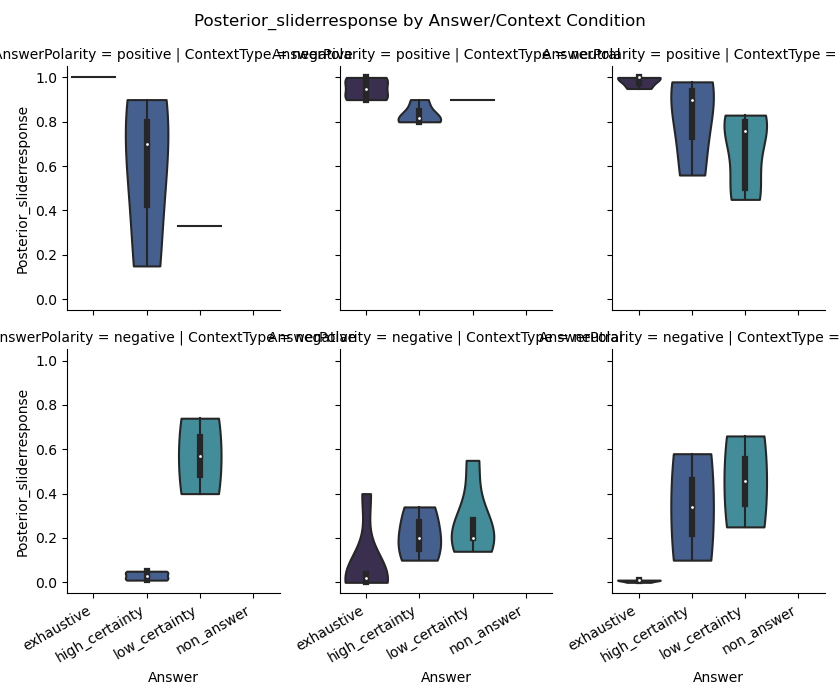
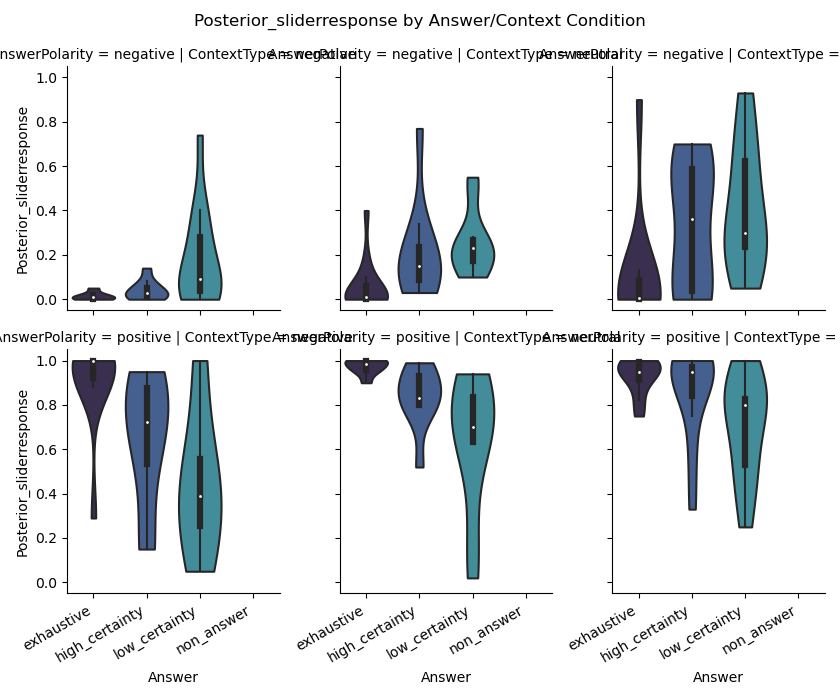
full pilot results

Changed region(s): [[0.0, 0.06, 0.9905, 0.84], [0.7429, 0.81, 0.7738, 0.84]]

diff --git a/analysis/make_results_df.py b/analysis/make_results_df.py
@@ -16,6 +16,7 @@ df = pd.read_csv(args.raw_responses)
 if args.pilot:
     df = df[df.submission_id.apply(lambda x: x >= 3008)]  # Exclude responses from beta testers (i.e. authors & friends)
     df = df[df.submission_id.apply(lambda x: x not in [3008, 3009])]  # Exclude responses from pilot 0.1. The p_min/p_max for attention check were wrong
+    df = df[df.submission_id.apply(lambda x: x not in [3031])]  # Author test
 
 # Make percents into probabilities
 df["sliderResponse"] = df["sliderResponse"]/100
